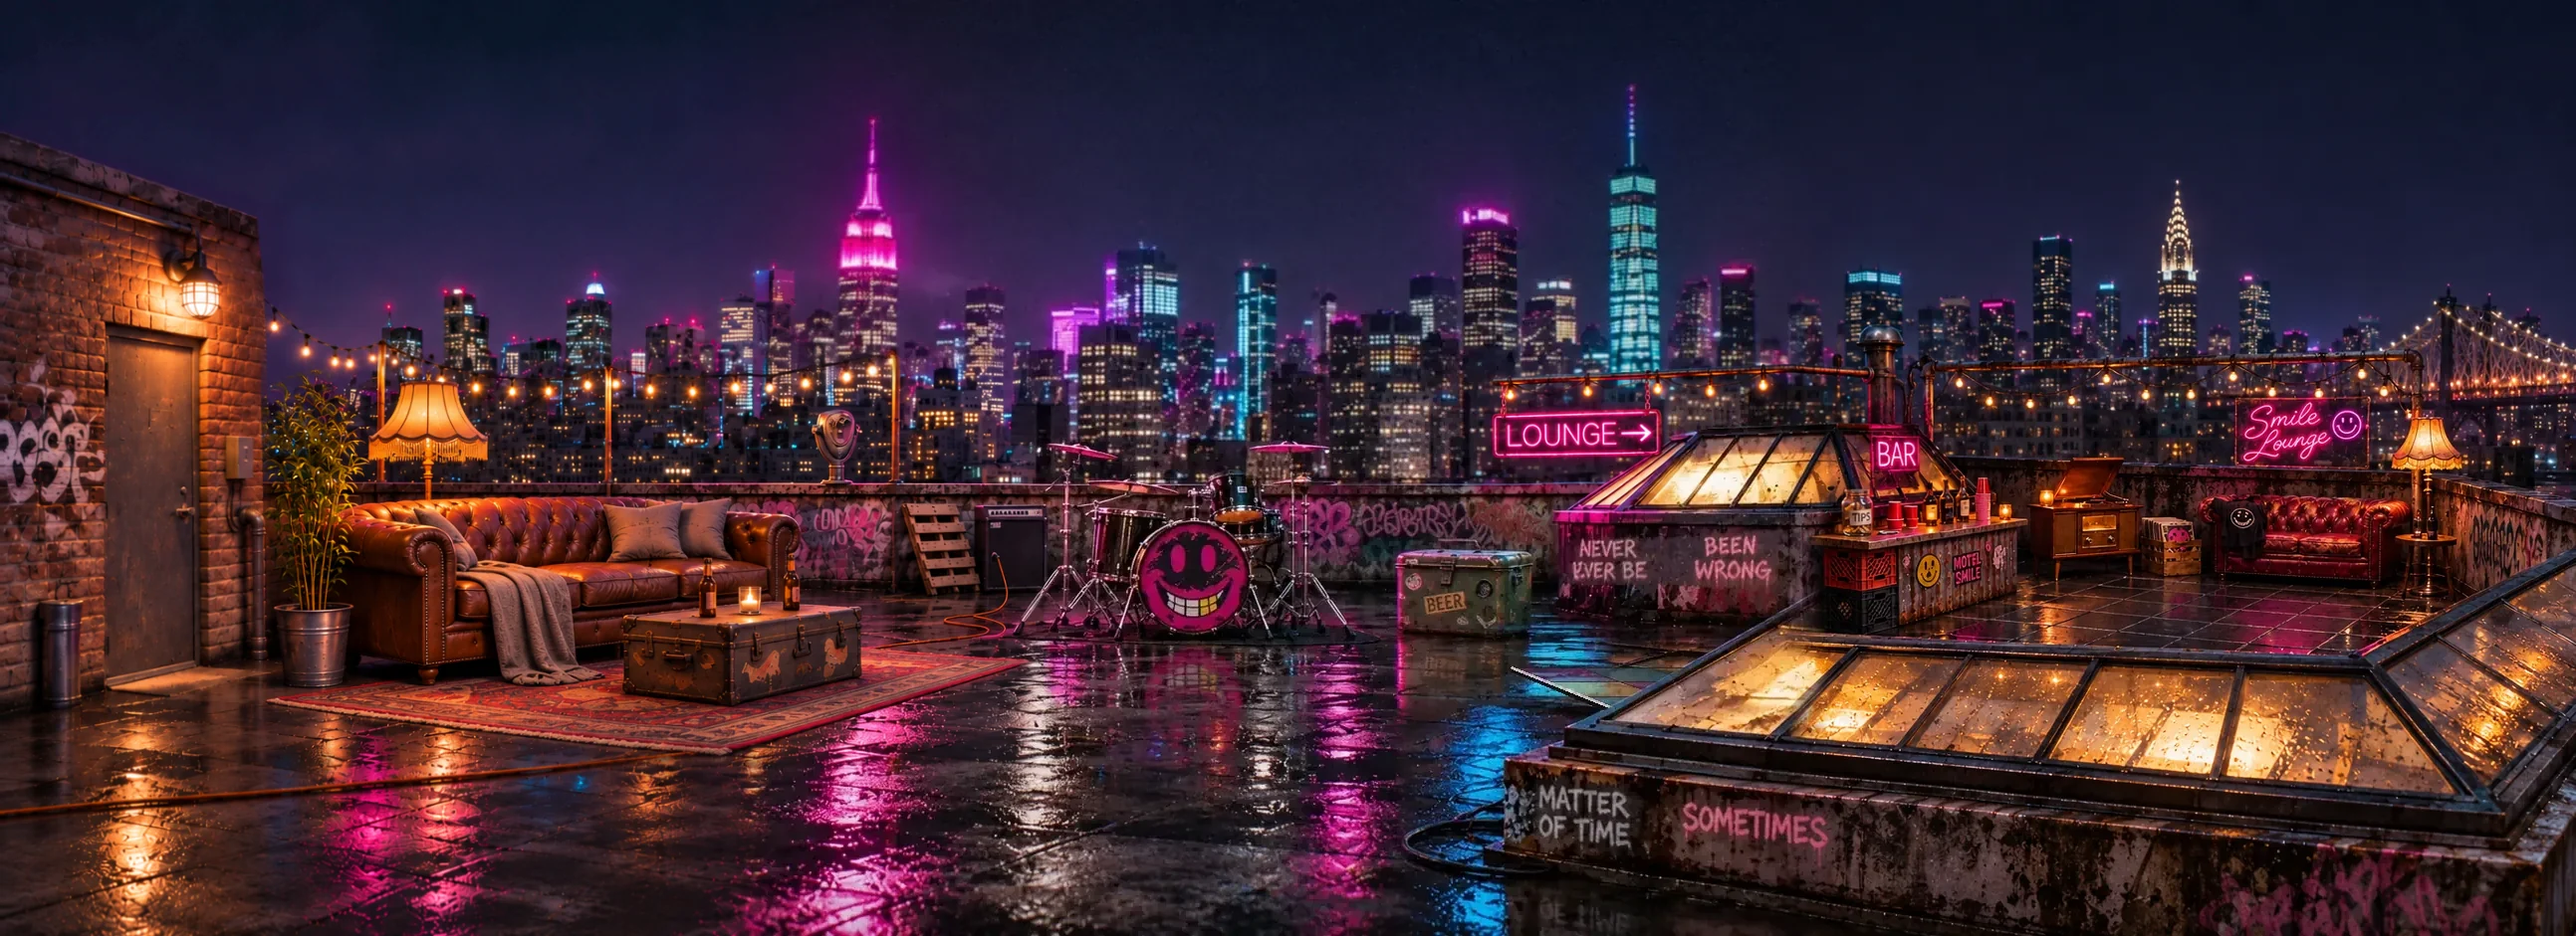
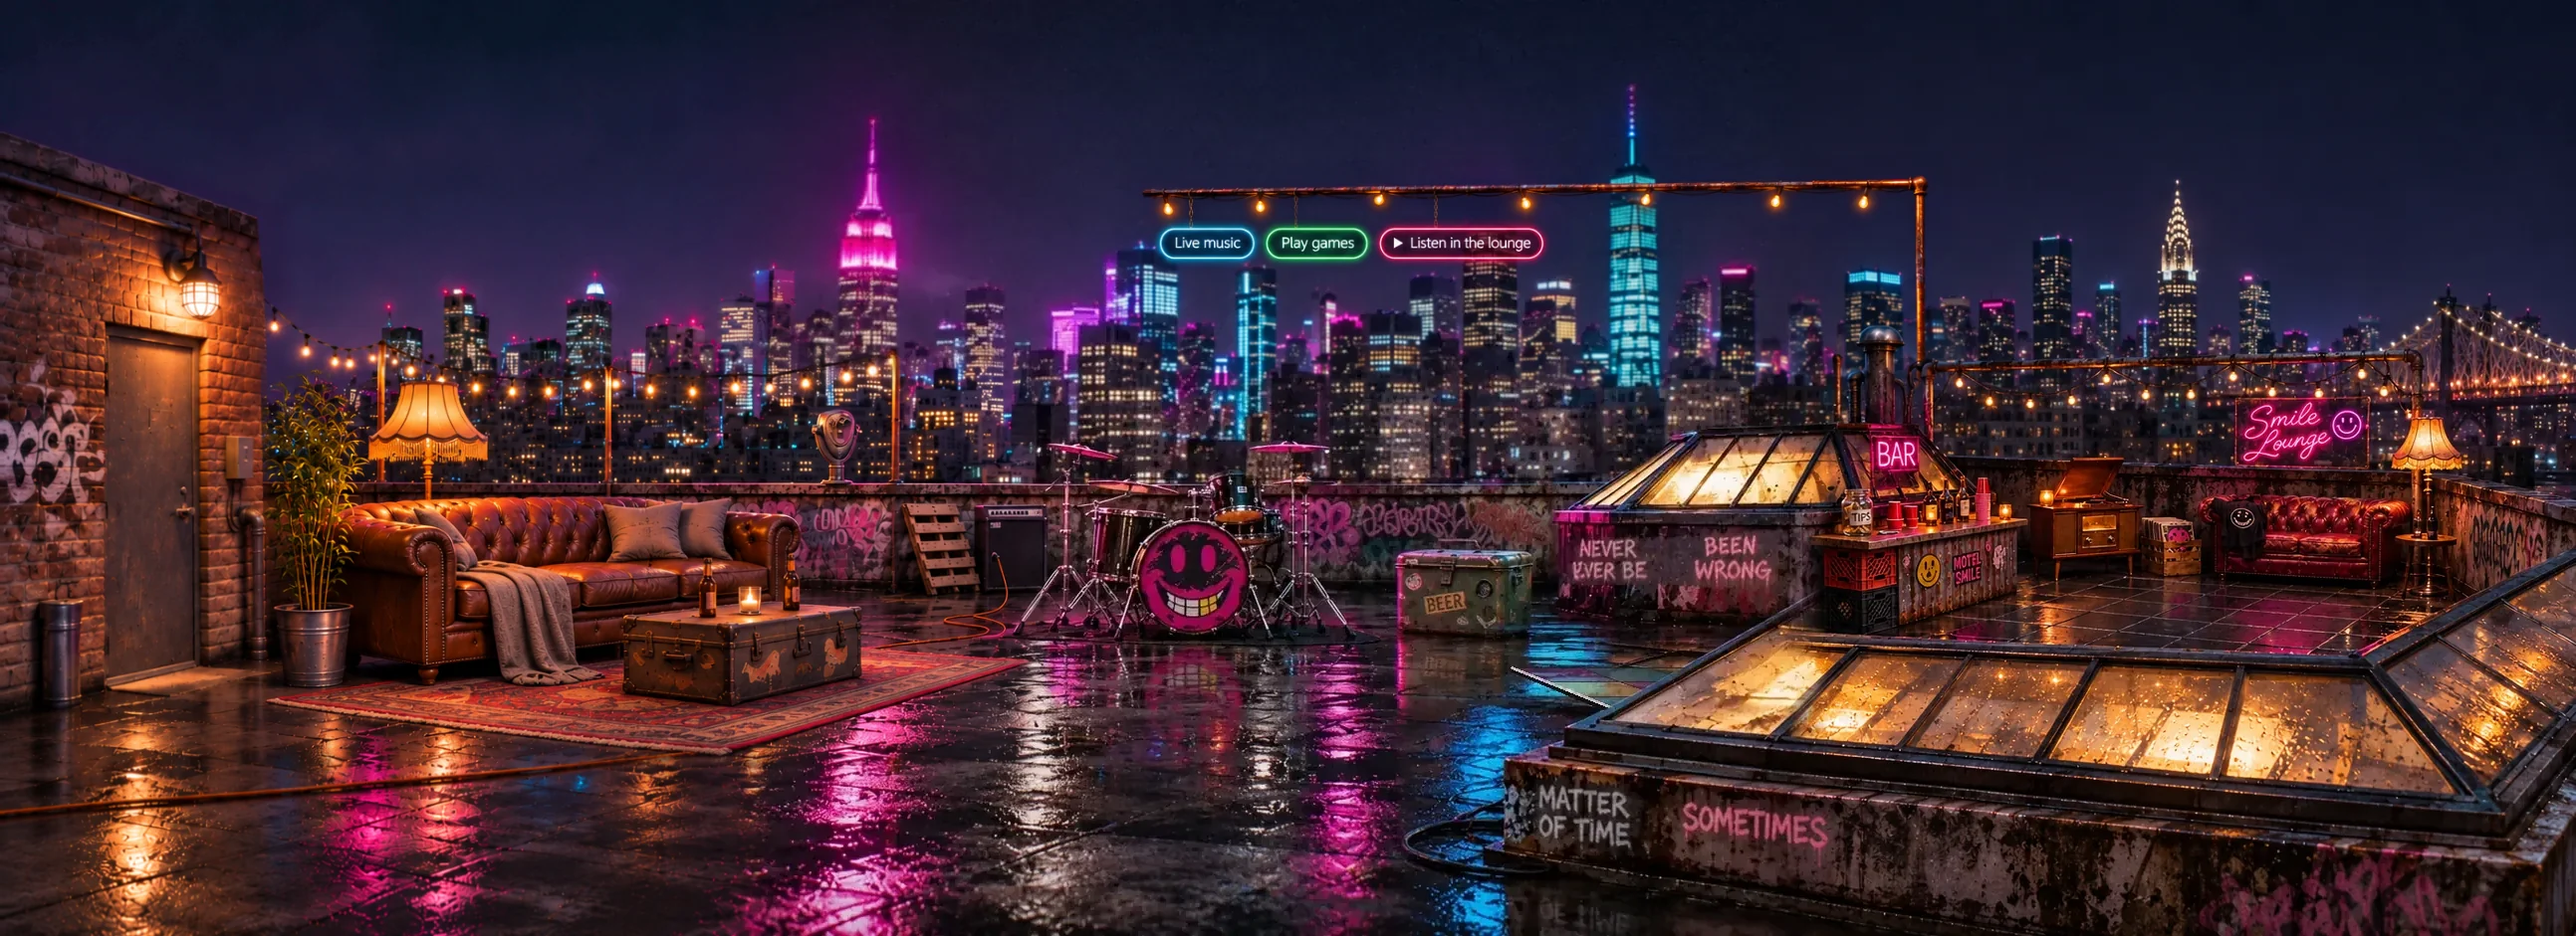
Main buttons are now neon signs hanging from a taller lounge pole arm (desktop/iPad; phone keeps the row); old LOUNGE sign removed
Claude-Session: https://claude.ai/code/session_011gssdMsenVXumrh9a32rRB

Changed region(s): [[0.4329, 0.1849, 0.7731, 0.5547], [0.7112, 0.5239, 0.7731, 0.5547]]

diff --git a/index.html b/index.html
@@ -288,7 +288,9 @@ window.MSFit=(w,h,W0,H0)=>{ const cov=Math.max(w/W0,h/H0), con=Math.min(w/W0,h/H
     <a class="pk" id="pk-floor" href="#lounge" data-lounge style="left:1850px;top:578px;width:436px;height:74px;clip-path:polygon(2% 0,100% 0,89% 100%,0 100%)" aria-label="Dance floor: go to the Smile Lounge"></a>
     <a class="pk" id="pk-bar" href="#lounge" data-lounge style="left:1648px;top:428px;width:206px;height:192px" aria-label="The bar: go to the Smile Lounge"></a>
     <a class="pk" id="pk-couch" href="#lounge" data-lounge style="left:1860px;top:400px;width:440px;height:178px" aria-label="The lounge: record player and couch"></a>
-    <button class="pk" id="pk-lngsign" style="left:1322px;top:408px;width:175px;height:58px" aria-label="Lounge sign: look over at the lounge"></button>
+    <button class="pk ns" id="ns-live" style="left:986px;top:225px;width:103px;height:40px" aria-label="Live music: shows"></button>
+    <button class="pk ns" id="ns-games" style="left:1092px;top:225px;width:111px;height:40px" aria-label="Play games"></button>
+    <button class="pk ns" id="ns-listen" style="left:1206px;top:225px;width:174px;height:40px" aria-label="Listen in the lounge"></button>
     <a class="pk" id="pk-arcade" hidden href="#arcade" data-arcade style="display:none;left:335px;top:318px;width:128px;height:245px" aria-label="Arcade: go to the game corner"></a>
     <canvas id="pat-fx" width="1672" height="941"></canvas>
     <div id="tags"></div>
@@ -2482,7 +2484,7 @@ body.gg-on .lg-panel,body.gg-on .lg-tag,body.gg-on .lg-hint,body.gg-on .lg-swipe
   function render(c){
     seo(c);
     const hints=c.site&&c.site.showSetupHints;
-    $("stage").style.backgroundImage=`url("${"img/roof-v2.webp?v=5"}")`; /* wide roof with the lounge (2412x941); content.json hero is the old 1672 plate */
+    $("stage").style.backgroundImage=`url("${"img/roof-v2.webp?v=7"}")`; /* wide roof with the lounge (2412x941); content.json hero is the old 1672 plate */
     const m=c.music,f=m.featured;
     const sub=[f.status,f.length].filter(Boolean).join(" · ");
     $("t-listen").textContent=f.title+" ▸"; $("t-listen-sub").textContent=sub;
@@ -4408,12 +4410,13 @@ body.ph #enter-lng{bottom:84px;font-size:15px;padding:10px 18px}
   b.addEventListener("click",e=>{ e.stopPropagation(); b.classList.remove("on"); const a=document.querySelector(".pill[data-lounge]"); a&&a.click(); });
   addEventListener("hashchange",()=>{ if(location.hash!=="#lounge") set(window.MSView); }); })();
 </script>
-<style>#pk-lngsign{border-radius:8px;animation:lsPulse 2.4s ease-in-out infinite}#pk-lngsign:hover,#pk-lngsign:focus-visible{box-shadow:0 0 22px 6px rgba(255,61,127,.75);outline:none}
-@keyframes lsPulse{0%,100%{box-shadow:0 0 0 0 rgba(255,61,127,0)}50%{box-shadow:0 0 18px 4px rgba(255,61,127,.45)}}@media (prefers-reduced-motion:reduce){#pk-lngsign{animation:none}}</style>
+<style>#play .ns{border-radius:999px}#play .ns:hover,#play .ns:focus-visible{box-shadow:0 0 22px 6px rgba(255,255,255,.35);outline:none}
+body:not(.ph) .sky .pills{visibility:hidden}body.ph #play .ns{display:none}</style>
 <script>
-/* the LOUNGE → sign on the pipe: takes the camera over to the lounge peek */
-(()=>{ const b=document.getElementById("pk-lngsign"); if(!b) return;
-  b.addEventListener("click",e=>{ e.stopPropagation(); window.MSBxSfx&&window.MSBxSfx("tick"); const L=window.MSSpots?window.MSSpots():null; let i=-1; if(L) i=L.findIndex(q=>q.n==="Lounge"); if(i<0) i=(innerWidth<=760||(innerHeight>innerWidth&&innerWidth<=1100))?2:1; window.MSPhGo&&window.MSPhGo(i); }); })();
+/* the three buttons are neon signs hanging from the pole arm (desktop + iPad); phone keeps the on-screen row */
+(()=>{ const go=(id,f)=>{ const b=document.getElementById(id); b&&b.addEventListener("click",e=>{ e.stopPropagation(); window.MSBxSfx&&window.MSBxSfx("tick"); f(); }); };
+  const pill=i=>()=>{ const p=document.querySelectorAll(".sky .pills .pill")[i]; p&&p.click(); };
+  go("ns-listen",pill(0)); go("ns-games",pill(1)); go("ns-live",pill(2)); })();
 </script>
 
 </body>
